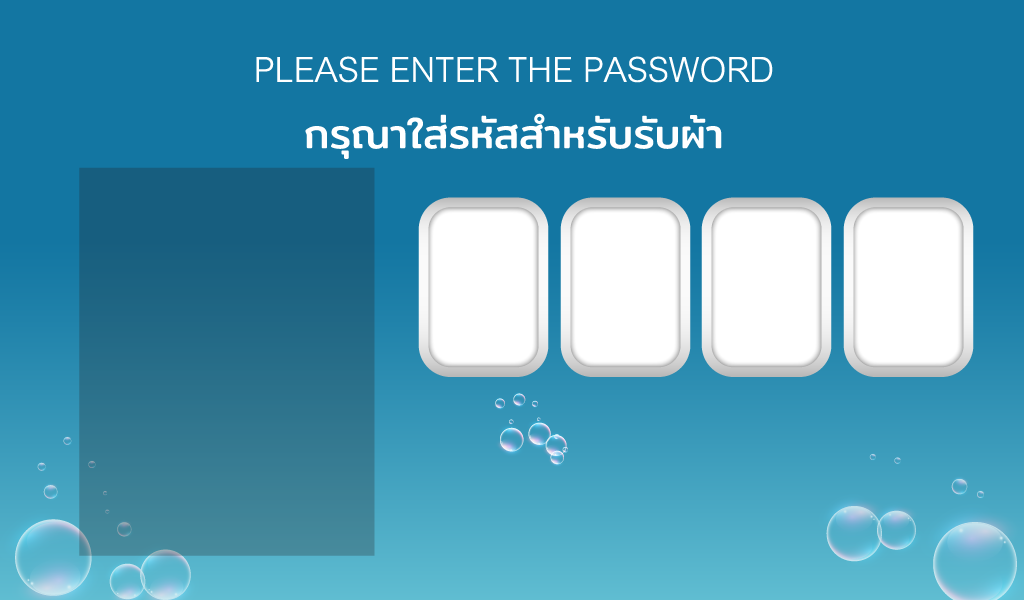
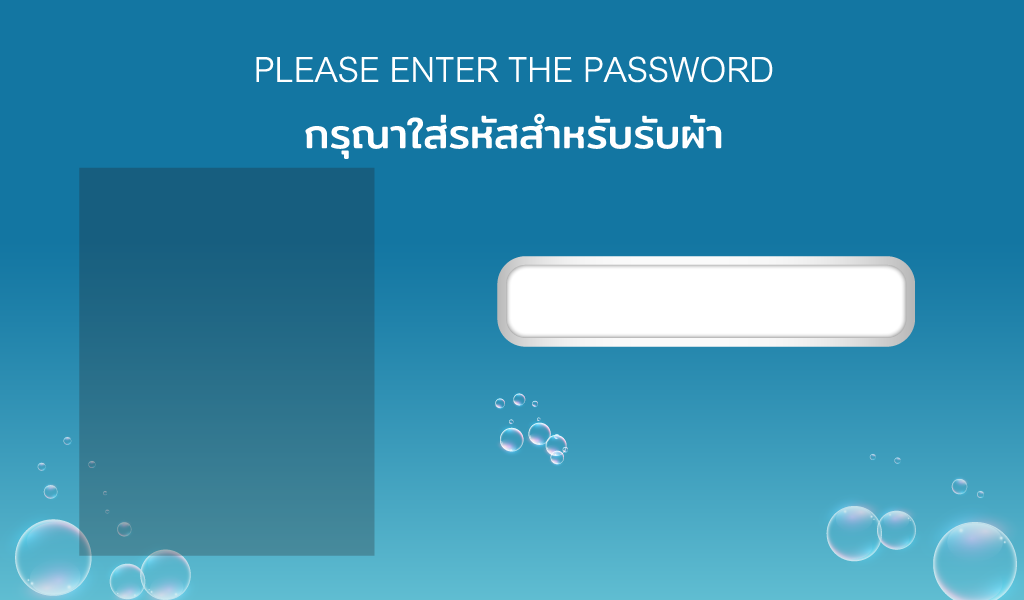
แก้ไข ui หน้ากรอกรหัสรับผ้า

Changed region(s): [[0.4062, 0.33, 0.9688, 0.63]]

diff --git a/client/src/pages/PickUpCode.vue b/client/src/pages/PickUpCode.vue
@@ -1,43 +1,60 @@
 <template>
   <q-page class="bgimg-pickup-1">
-    <div class="flex flex-center">
+    <div class="flex flex-center" style="padding-top:20px;">
       <div class="q-pa-md">
-        <div class="row" style="padding-top:150px;">
-          <table align="center">
-            <tbody>
-              <tr>
-                <td align="center" colspan="5" height="180px">
-                  <b>{{ formModel.OTP }}</b>
-                </td>
-              </tr>
-              <tr>
-                <td @click="codeNo(1)" align="center">1</td>
-                <td @click="codeNo(2)" align="center">2</td>
-                <td @click="codeNo(3)" align="center">3</td>
-              </tr>
-              <tr>
-                <td @click="codeNo(4)" align="center">4</td>
-                <td @click="codeNo(5)" align="center">5</td>
-                <td @click="codeNo(6)" align="center">6</td>
-              </tr>
-              <tr>
-                <td @click="codeNo(7)" align="center">7</td>
-                <td @click="codeNo(8)" align="center">8</td>
-                <td @click="codeNo(9)" align="center">9</td>
-              </tr>
-              <tr>
-                <td></td>
-                <td @click="codeNo(0)" align="center">0</td>
-                <td></td>
-              </tr>
-              <tr></tr>
-              <tr>
-                <td align="center" colspan="5">
-                  <img @click="ok()" alt="Quasar logo" src="~assets/DropOff/05-Drop-Off-btn1.png" />
-                </td>
-              </tr>
-            </tbody>
-          </table>
+        <div class="row" style="width:1210px; padding-top:175px">
+          <div class="col-5" style="padding-top:55px; padding-left:85px;">
+            <table>
+              <tbody>
+                <tr>
+                  <td class="btn-number" @click="codeNo(1)" align="center">
+                    <img src="assets/PickUp/02-Pick-Up-btn-number1.png" />
+                  </td>
+                  <td class="btn-number" @click="codeNo(2)" align="center">
+                    <img src="assets/PickUp/02-Pick-Up-btn-number2.png" />
+                  </td>
+                  <td class="btn-number" @click="codeNo(3)" align="center">
+                    <img src="assets/PickUp/02-Pick-Up-btn-number3.png" />
+                  </td>
+                </tr>
+                <tr>
+                  <td class="btn-number" @click="codeNo(4)" align="center">
+                    <img src="assets/PickUp/02-Pick-Up-btn-number4.png" />
+                  </td>
+                  <td class="btn-number" @click="codeNo(5)" align="center">
+                    <img src="assets/PickUp/02-Pick-Up-btn-number5.png" />
+                  </td>
+                  <td class="btn-number" @click="codeNo(6)" align="center">
+                    <img src="assets/PickUp/02-Pick-Up-btn-number6.png" />
+                  </td>
+                </tr>
+                <tr>
+                  <td class="btn-number" @click="codeNo(7)" align="center">
+                    <img src="assets/PickUp/02-Pick-Up-btn-number7.png" />
+                  </td>
+                  <td class="btn-number" @click="codeNo(8)" align="center">
+                    <img src="assets/PickUp/02-Pick-Up-btn-number8.png" />
+                  </td>
+                  <td class="btn-number" @click="codeNo(9)" align="center">
+                    <img src="assets/PickUp/02-Pick-Up-btn-number9.png" />
+                  </td>
+                </tr>
+                <tr>
+                  <td></td>
+                  <td class="btn-number" @click="telephoneNo(0)" align="center">
+                    <img src="assets/PickUp/02-Pick-Up-btn-number0.png" />
+                  </td>
+                  <td class="btn-number" @click="deleteTelephoneNo()" align="center">
+                    <img src="assets/PickUp/02-Pick-Up-btn-numberX.png" />
+                  </td>
+                </tr>
+              </tbody>
+            </table>
+          </div>
+          <div class="col-7 text-h2" align="center" style="padding-top:170px;">{{ formModel.OTP}}</div>
+          <p style="padding-top:100px;">
+            <img @click="ok()" src="~assets/PickUp/02-Pick-Up-btn1.png" />
+          </p>
         </div>
       </div>
     </div>
